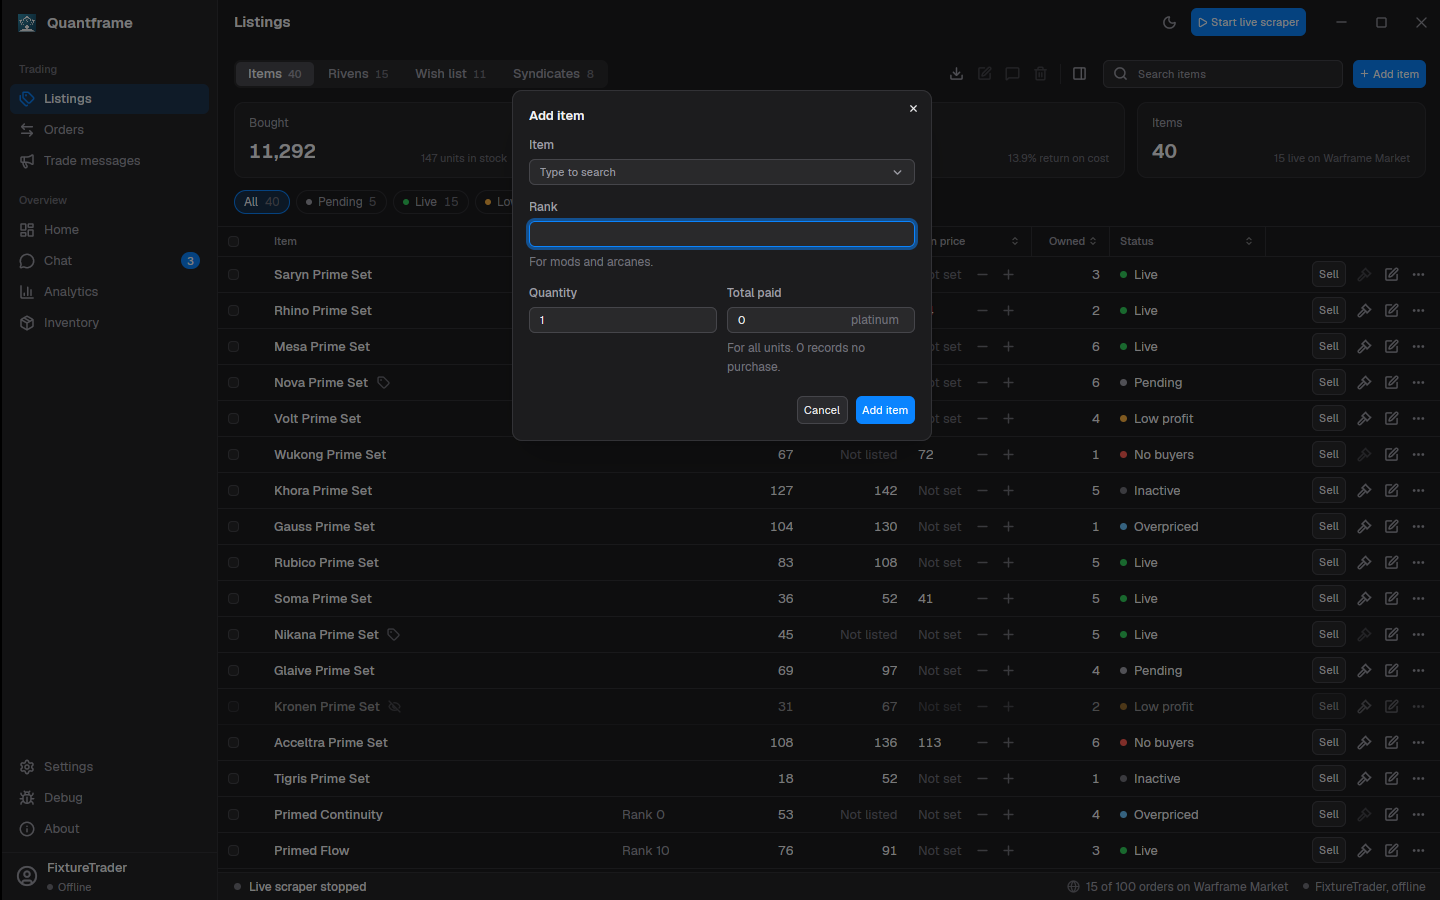
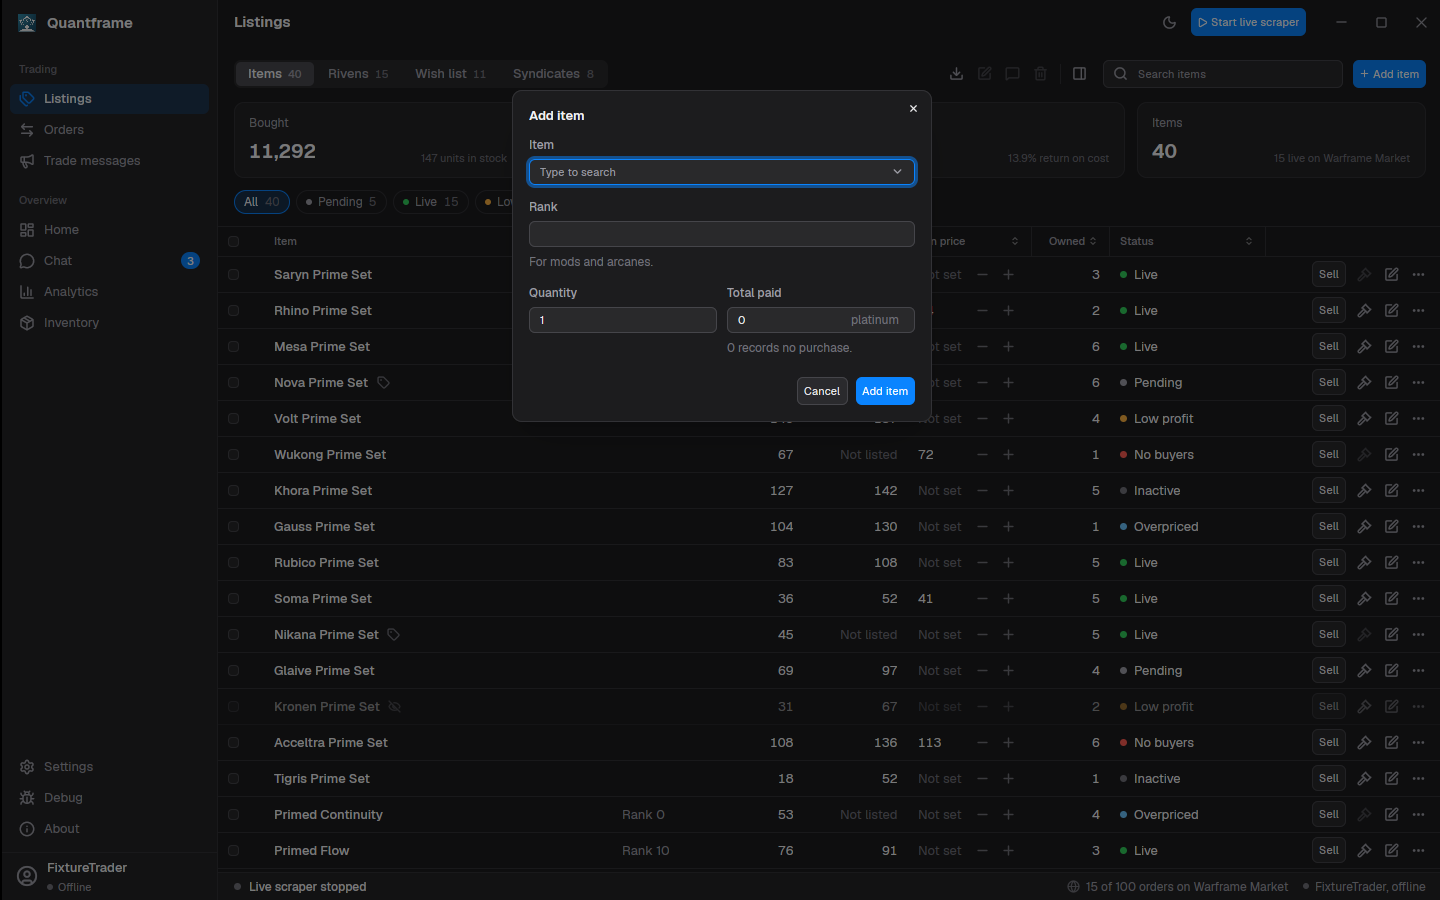
Refresh the screenshots and record the polish pass

Changed region(s): [[0.3438, 0.1556, 0.6562, 0.28], [0.5, 0.3733, 0.6562, 0.4978]]

diff --git a/memory.md b/memory.md
@@ -57,3 +57,8 @@
 - 2026-11-18: Limits in the GPUI update structs are `BulkEdit<Limit>` (`app-gpui/src/model/edit.rs`). `BulkEdit::Keep` leaves each row's value, and `Limit::Unset` clears it. `data/api/mod.rs::limit` sends `Unset` as 0, which the backend's `nullify_zeroed_properties` clears. `Form::draft` reads values for the preview, and `Form::validate` records errors on submit.
 - 2026-11-18: The fixture auctions that match a stock riven carry no `uuid`. `fixtures::seed_market` calls `Auction::apply_uuid`, which wf-market computes from the same fields as `stock_riven::Model::uuid`, and the fixture test still counts 2 importable auctions. `src-tauri/fixtures/generate.py` downloads `/v2/items`, `/v2/riven/weapons` and `/v2/riven/attributes` (header `Language: en`) into `fixtures/recorded/` when a file is missing, and now writes the riven weapon files itself (`generate_weapons.py` is gone). A run on this date reproduced every committed fixture file byte for byte. Only `riven_weapons.json` is committed in `recorded/`. On nixbox the uv Python needs `SSL_CERT_FILE=/etc/ssl/certs/ca-certificates.crt` for the download.
 - 2026-11-18: This codebase is not rustfmt-clean, so `rustfmt` on a whole file reformats unrelated code, and on a `mod.rs` it also reformats the child modules. Format only the lines you change.
+- 2026-11-18: Visual polish pass on `t3/gpui-visual-polish`. `chart::bars` paints its x-axis labels on a `canvas`: it shapes every label, compares the widest with the width of one bar group, and skips labels that don't fit (`label_step`, which prefers a step that divides the group count, so 24 hours get every third label). `Ticks::FromFirst` keeps the first label (hours, months) and `Ticks::FromLast` keeps the last (dates, so today's bar has its label). The dashboard's 7-day chart shows `ui::short_date` labels such as "12 Nov".
+- 2026-11-18: `ui::counted(count, singular, plural)` writes every count that carries a noun ("1 sale", "0 purchases"). `ui::MONTHS` is the one month list, and `ui::short_date` and `ui::day_and_time` share it. `settings::schema::ListSpec` has a `plural` for its empty state ("No blacklisted items yet."), and `settings::trade_mode_label` gives the Debug screen the same trade mode names as Settings.
+- 2026-11-18: `Form::focus_first` focuses the first input or select of a dialog (a toggle is skipped), so the add dialogs of Listings and Trade messages open with the item select focused. gpui-component's `Select` draws its own focus outline.
+- 2026-11-18: Render artifact, not fixed: in `trade-messages-rivens.png` and `trade-messages-rivens-panel.png` the last row keeps its hover colour. Under Xvfb the pointer starts at 720,450, which is on that row, and the row is the table's last. When the first pointer motion the window ever sees leaves every row in one jump, gpui keeps the hover style. One `xdotool mousemove_relative -- 4 2` before the six steps of `render-screens.sh` clears it (measured: the row's background is 28,28,30 with the extra move and 37,37,40 without). The script was outside this pass's scope.
+- 2026-11-18: Backend copy defect, not fixed: `Error::from_qf` gets messages with a literal `{}` in `src-tauri/src/commands/riven.rs`, `syndicate_price.rs` and `market.rs` ("Failed to lookup riven prices: {}"), and the Analytics Rivens, Syndicates and Users error states show it.
